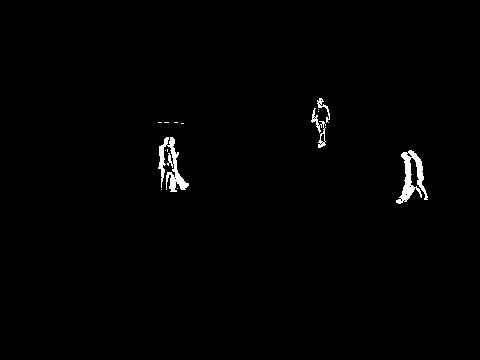
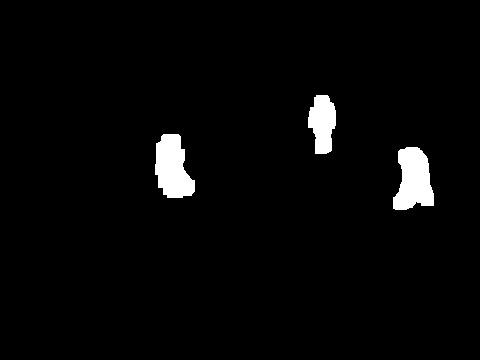
Modifying highlight.py for generating bounding box, DBScan used to determine the objects

Changed region(s): [[0.8125, 0.3972, 0.9062, 0.5806], [0.3125, 0.3667, 0.4062, 0.55], [0.625, 0.2444, 0.7188, 0.4278]]

diff --git a/highlighting.py b/highlighting.py
@@ -1,31 +1,44 @@
-import cv2
+from turtle import shape
 
+from sklearn import cluster
+import cv2
+import numpy as np
+from sklearn.cluster import DBSCAN
+
+f1 = cv2.imread('vtest-f1.jpg')
+f2 = cv2.imread('vtest-f2.jpg')
 img = cv2.imread('vtest-result.jpg')
 img = cv2.cvtColor(img, cv2.COLOR_BGR2GRAY)
-print(img[img==255])
-x_list = []
-y_list = []
+result = cv2.imread('vtest-f2.jpg')
+
+obj = []
 for y in range(img.shape[0]):
-    for x in range(img.shape[1]):
+    for x in range(1,img.shape[1]-1):
         if img[y][x]==255:
-            print('found: ',x)
-            x_list.append(x)
-            y_list.append(y)
+            obj.append([y,x])
 
-x_min = min(x_list)
-x_max = max(x_list)
-y_min = min(y_list)
-y_max = max(y_list)
-print('X: (',x_min,',',x_max,')')
-print('Y: (',y_min,',',y_max,')')
+obj = np.array(obj)
+clustering = DBSCAN(eps=3, min_samples=2).fit(obj)
+labels = clustering.labels_
 
-result = cv2.imread('vtest-f1.jpg')
-# Draw rectangle
-result[y_min, x_min:x_max] = [0,255,0]
-result[y_max, x_min:x_max] = [0,255,0]
-result[y_min:y_max, x_min] = [0,255,0]
-result[y_min:y_max, x_max] = [0,255,0]
+obj_label = np.zeros((obj.shape[0], obj.shape[1]+1), int)
+obj_label[:,:2] = obj
+obj_label[:,2] = labels
 
-cv2.imshow('Grayscale', img)
-cv2.imshow('Result', result)
+
+for i in labels:
+    sliced = obj_label[(obj_label[:,2]==i)]
+    min_y = np.amin(sliced[:,0])
+    max_y = np.amax(sliced[:,0])
+    min_x = np.amin(sliced[:,1])
+    max_x = np.amax(sliced[:,1])
+    
+    # Draw Rectangle
+    result[min_y, min_x:max_x] = [0,255,0]
+    result[max_y, min_x:max_x] = [0,255,0]
+    result[min_y:max_y, min_x] = [0,255,0]
+    result[min_y:max_y, max_x] = [0,255,0]
+
+cv2.imshow('Thresholded', img)
+cv2.imshow('Localization', result)
 cv2.waitKey(0)

diff --git a/subtract.py b/subtract.py
@@ -24,9 +24,12 @@ for y in range(background.shape[0]):
     # Jika menggunakan Grayscale
         color_thresholded = 255 if abs(int(background[y][x])-int(f1[y][x]))>25 else 0
         color = abs(int(background[y][x])-int(f1[y][x]))
-        print('y: ',y,' x: ',x,' : ', color)
         result[y][x] = color
         result_thresholded[y][x] = color_thresholded
+
+result_thresholded = cv2.dilate(result_thresholded, np.ones((3,3), np.uint8),iterations=1)
+result_thresholded = cv2.erode(result_thresholded, np.ones((2,2), np.uint8),iterations=3)
+result_thresholded = cv2.dilate(result_thresholded, np.ones((3,3), np.uint8),iterations=5)
 cv2.imwrite('vtest-result.jpg', result_thresholded)
 cv2.imshow('Result', result)
 cv2.imshow('Thresholded', result_thresholded)

diff --git a/grayscaling.py b/grayscaling.py
@@ -29,8 +29,6 @@ for y in range(img.shape[0]):
         green = img[y][x][1]/3
         blue = img[y][x][0]/3
         color = blue+green+red
-        print('y: ', y, ' x: ',x,' : ',color)
         result[y][x] = color
-        
 cv2.imshow('Grayscale',result)
 cv2.waitKey(0)
